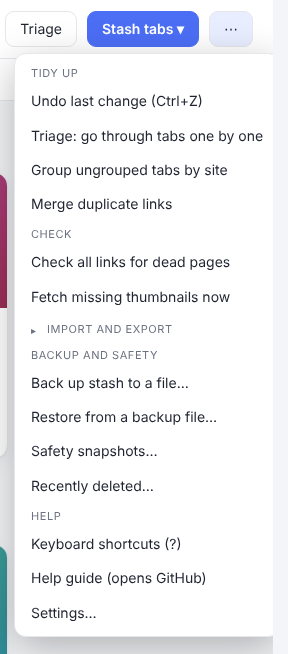
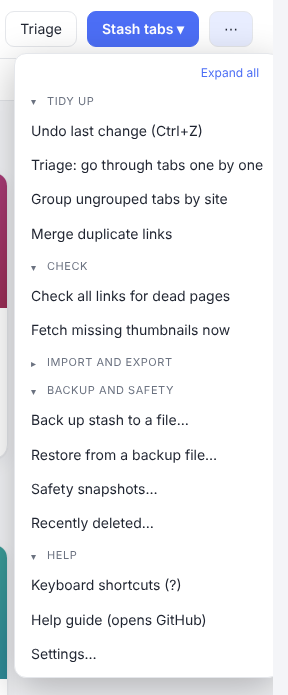
2.2.1: every menu section collapsible, Expand all / Collapse all in the menu and settings
Claude-Session: https://claude.ai/code/session_01LZ6SaFunuLG4d2cNP9vBd9

diff --git a/stash.js b/stash.js
@@ -812,15 +812,18 @@ function triage(ids) {
 
 function toolsMenu(anchor) {
   showMenu(anchor, [
-    { head: 'Tidy up' },
-    { label: 'Undo last change (Ctrl+Z)', onClick: doUndo },
-    { label: 'Triage: go through tabs one by one', onClick: () => triage() },
-    { label: 'Group ungrouped tabs by site', onClick: act.autoGroupBySite },
-    { label: 'Merge duplicate links', onClick: act.mergeDuplicates },
-    { head: 'Check' },
-    { label: ui.selected.size ? 'Check links of selected tabs' : 'Check all links for dead pages', onClick: () => act.runLinkCheck(ui.selected.size ? selectedItems() : app.state.items) },
-    { label: 'Fetch missing thumbnails now', onClick: act.fetchThumbsNow },
-    { section: 'Import and export', items: [
+    { toggleAll: true },
+    { section: 'Tidy up', items: [
+      { label: 'Undo last change (Ctrl+Z)', onClick: doUndo },
+      { label: 'Triage: go through tabs one by one', onClick: () => triage() },
+      { label: 'Group ungrouped tabs by site', onClick: act.autoGroupBySite },
+      { label: 'Merge duplicate links', onClick: act.mergeDuplicates },
+    ] },
+    { section: 'Check', items: [
+      { label: ui.selected.size ? 'Check links of selected tabs' : 'Check all links for dead pages', onClick: () => act.runLinkCheck(ui.selected.size ? selectedItems() : app.state.items) },
+      { label: 'Fetch missing thumbnails now', onClick: act.fetchThumbsNow },
+    ] },
+    { section: 'Import and export', open: false, items: [
       { head: 'Import' },
       { label: 'Import links from pasted text…', onClick: act.pasteLinks },
       { label: 'Import links or bookmarks from a file…', onClick: () => $('#importFile').click() },
@@ -829,15 +832,17 @@ function toolsMenu(anchor) {
       { label: 'Export links as plain text', onClick: act.exportPlainLinks },
       { label: 'Export as a bookmarks file (HTML)', onClick: act.exportBookmarks },
     ] },
-    { head: 'Backup and safety' },
-    { label: 'Back up stash to a file…', onClick: () => act.saveBackup() },
-    { label: 'Restore from a backup file…', onClick: act.restoreBackup },
-    { label: 'Safety snapshots…', onClick: () => openSnapshots() },
-    { label: 'Recently deleted…', onClick: () => openTrash(refresh) },
-    { head: 'Help' },
-    { label: 'Keyboard shortcuts (?)', onClick: () => $('#dlgHelp').showModal() },
-    { label: 'Help guide (opens GitHub)', onClick: () => window.open(`https://github.com/${REPO}/blob/main/docs/HELP.md`, '_blank', 'noopener') },
-    { label: 'Settings…', onClick: () => openSettings({ onSaved: () => { applySettings(); scheduleRender(); } }) },
+    { section: 'Backup and safety', items: [
+      { label: 'Back up stash to a file…', onClick: () => act.saveBackup() },
+      { label: 'Restore from a backup file…', onClick: act.restoreBackup },
+      { label: 'Safety snapshots…', onClick: () => openSnapshots() },
+      { label: 'Recently deleted…', onClick: () => openTrash(refresh) },
+    ] },
+    { section: 'Help', items: [
+      { label: 'Keyboard shortcuts (?)', onClick: () => $('#dlgHelp').showModal() },
+      { label: 'Help guide (opens GitHub)', onClick: () => window.open(`https://github.com/${REPO}/blob/main/docs/HELP.md`, '_blank', 'noopener') },
+      { label: 'Settings…', onClick: () => openSettings({ onSaved: () => { applySettings(); scheduleRender(); } }) },
+    ] },
   ]);
 }
 

diff --git a/ui.js b/ui.js
@@ -80,7 +80,8 @@ export function closeMenu() {
 const sectionOpen = new Map();
 
 // entries: { label, onClick, danger, disabled } | { head } | { sep } | falsy (skipped) |
-//          { section: 'Title', items: [...entries], open: false }  (a heading that folds its items away)
+//          { section: 'Title', items: [...entries], open: true }  (a heading that folds its items away) |
+//          { toggleAll: true }  (one button that opens or folds every section of this menu)
 export function showMenu(anchor, entries) {
   closeMenu();
   const m = h('div', { class: 'menu', role: 'menu' });
@@ -98,24 +99,42 @@ export function showMenu(anchor, entries) {
     m.style.left = Math.max(8, x) + 'px';
     m.style.top = y + 'px';
   };
+  const sections = []; // { title, head, body }
+  let toggleBtn = null;
+  const setOpen = (s, open) => {
+    s.body.hidden = !open;
+    s.head.setAttribute('aria-expanded', String(open));
+    s.head.firstChild.textContent = open ? '▾' : '▸';
+    sectionOpen.set(s.title, open);
+  };
+  const refreshToggle = () => {
+    if (toggleBtn) toggleBtn.textContent = sections.every((s) => !s.body.hidden) ? 'Collapse all' : 'Expand all';
+  };
   for (const e of entries.filter(Boolean)) {
-    if (!e.section) {
-      m.append(item(e));
-      continue;
-    }
-    const open = sectionOpen.has(e.section) ? sectionOpen.get(e.section) : !!e.open;
-    const body = h('div', { class: 'menu-body', hidden: !open }, e.items.filter(Boolean).map(item));
-    const head = h('button', { class: 'menu-section', 'aria-expanded': String(open) }, h('span', { class: 'chev', text: open ? '▾' : '▸' }), e.section);
-    head.addEventListener('click', () => {
-      const now = body.hidden; // currently closed -> open it
-      body.hidden = !now;
-      head.setAttribute('aria-expanded', String(now));
-      head.firstChild.textContent = now ? '▾' : '▸';
-      sectionOpen.set(e.section, now);
-      place();
-    });
-    m.append(head, body);
+    if (e.toggleAll) {
+      toggleBtn = h('button', { class: 'menu-toggle-all', onclick: () => {
+        const open = !sections.every((s) => !s.body.hidden);
+        for (const s of sections) setOpen(s, open);
+        refreshToggle();
+        place();
+      } });
+      m.append(toggleBtn);
+    } else if (e.section) {
+      const open = sectionOpen.has(e.section) ? sectionOpen.get(e.section) : e.open !== false;
+      const body = h('div', { class: 'menu-body' }, e.items.filter(Boolean).map(item));
+      const head = h('button', { class: 'menu-section' }, h('span', { class: 'chev' }), e.section);
+      const s = { title: e.section, head, body };
+      sections.push(s);
+      setOpen(s, open);
+      head.addEventListener('click', () => {
+        setOpen(s, body.hidden);
+        refreshToggle();
+        place();
+      });
+      m.append(head, body);
+    } else m.append(item(e));
   }
+  refreshToggle();
   document.body.append(m);
   place();
   openMenu = m;

diff --git a/dialogs.js b/dialogs.js
@@ -275,6 +275,20 @@ export async function refreshAutobackupStatus() {
     : 'Not set up. Pick a file (for example on your Desktop) and TabDepot keeps it up to date while a stash page is open.';
 }
 
+// "Expand all / Collapse all" for the sections of the settings dialog.
+function wireToggleAll() {
+  const secs = [...document.querySelectorAll('#dlgSettings details.sec')];
+  const btn = $('#sToggleAll');
+  const refresh = () => (btn.textContent = secs.every((d) => d.open) ? 'Collapse all' : 'Expand all');
+  secs.forEach((d) => (d.ontoggle = refresh));
+  btn.onclick = () => {
+    const open = !secs.every((d) => d.open);
+    secs.forEach((d) => (d.open = open));
+    refresh();
+  };
+  refresh();
+}
+
 export async function openSettings(hooks = {}) {
   const s = (app.settings = await getSettings());
   $('#sIncludePinned').checked = s.includePinned;
@@ -285,6 +299,7 @@ export async function openSettings(hooks = {}) {
   $('#sOpenMode').value = s.openMode;
   $('#sLazy').checked = s.lazyRestore;
   $('#sSnap').checked = s.snapshots;
+  wireToggleAll();
   $('#sOpenDest').value = s.openDest;
   $('#sNotify').checked = s.notifications;
   $('#sKeepDeleted').checked = s.keepDeleted;

diff --git a/stash.css b/stash.css
@@ -264,3 +264,9 @@ details.sec .home { background: var(--panel); }
 .menu-section:hover { color: var(--text); }
 .menu-section .chev { width: 10px; font-size: 10px; }
 .menu-body[hidden] { display: none; }
+
+.menu-toggle-all { display: block; margin: 2px 8px 2px auto; padding: 2px 6px; border: 0; background: transparent; color: var(--accent, #4f6bed); font-size: 12px; cursor: pointer; }
+.menu-toggle-all:hover { text-decoration: underline; }
+.sec-tools { text-align: right; margin-top: 4px; }
+.sec-tools button { border: 0; background: transparent; color: var(--accent, #4f6bed); font-size: 12px; cursor: pointer; padding: 2px 4px; }
+.sec-tools button:hover { text-decoration: underline; }

diff --git a/stash.html b/stash.html
@@ -208,6 +208,7 @@
   <dialog id="dlgSettings">
     <form method="dialog">
       <h3>Settings</h3>
+      <div class="sec-tools"><button type="button" class="link" id="sToggleAll">Collapse all</button></div>
       <details class="sec" open>
         <summary>Stashing</summary>
         <label class="row"><input type="checkbox" id="sIncludePinned"> Include pinned tabs when stashing many tabs</label>

diff --git a/docs/HELP.md b/docs/HELP.md
@@ -199,13 +199,15 @@ The **Open** menu (also on each group's **Open ▾** button) has two halves: *Op
 
 ## The ⋯ menu
 
-The tools menu, in groups. **Import and export** is one section that starts folded; click its heading to unfold it (it stays as you leave it while the page is open).
+The tools menu is made of sections. **Click a section heading** (▾ / ▸) to fold or unfold it, or use **Expand all / Collapse all** at the top to do every section at once. *Import and export* starts folded; the rest start open. The menu remembers how you left it while the page is open.
 
 ![The tools menu](images/tools-menu.png)
 
-![The tools menu with Import and export unfolded](images/tools-menu-import-export.png)
+![Everything unfolded](images/tools-menu-expanded.png)
 
-**Tidy up**
+![Everything folded](images/tools-menu-collapsed.png)
+
+**Tidy up** (a section; the others work the same way)
 - **Undo last change (Ctrl+Z).** Reverses the last change. Up to 60 steps are remembered while the page is open.
 - **Triage: go through tabs one by one.** See [Triage mode](#triage-mode).
 - **Group ungrouped tabs by site.** Makes a group for each website that has two or more ungrouped tabs (or, if cards are selected, from the selection).
@@ -215,7 +217,7 @@ The tools menu, in groups. **Import and export** is one section that starts fold
 - **Check all links for dead pages** (or *Check links of selected tabs* when some are selected). Asks each website whether the page still exists, without opening it. Progress shows at the top with a *Stop* button. Results appear as badges and in the **Link** filter.
 - **Fetch missing thumbnails now.** Looks for pictures for cards that have none.
 
-**Import and export** (click the heading to fold or unfold)
+**Import and export** (folded at first)
 - **Import links from pasted text…** See [Import links from text](#import-links-from-text).
 - **Import links or bookmarks from a file…** Reads a TabDepot backup (`.json`), a text file of links (`.txt`), or a browser bookmarks file (`.html`, from Chrome, Edge, Firefox or Safari: folders become groups). Links you already have are not added again; their groups are merged. A safety snapshot is taken first.
 
@@ -309,7 +311,7 @@ When you reach the end you get a summary of how many you kept, deleted, opened a
 
 ## Settings
 
-Open it from the ⋯ menu, from the popup, or with the *Settings* button. The options are in sections you can open and close.
+Open it from the ⋯ menu, from the popup, or with the *Settings* button. The options are in sections you can open and close; **Expand all / Collapse all** at the top of the dialog does every section at once. Only *Stashing* is open when the dialog first opens.
 
 ![Settings, with every section open](images/settings-expanded.png)
 

diff --git a/CHANGELOG.md b/CHANGELOG.md
@@ -3,6 +3,10 @@
 All notable changes to TabDepot (called Tab Stash before 2.1.3). Format based on [Keep a Changelog](https://keepachangelog.com/),
 versions follow [Semantic Versioning](https://semver.org/) (MAJOR.MINOR.PATCH).
 
+## [2.2.1] - 2026-11-08
+### Changed
+- **Every section of the ⋯ menu can be folded** (Tidy up, Check, Import and export, Backup and safety, Help), with an **Expand all / Collapse all** button at the top. The settings dialog has the same button.
+
 ## [2.2.0] - 2026-11-08
 ### Added
 - **Import links from pasted text.** Tools menu → *Import links from pasted text…*: paste a list of URLs, an email, Markdown, a OneTab export (`URL | title`) or the HTML of a page. Every link is found (titles are kept where the text has them) and you can add them straight to a group.
